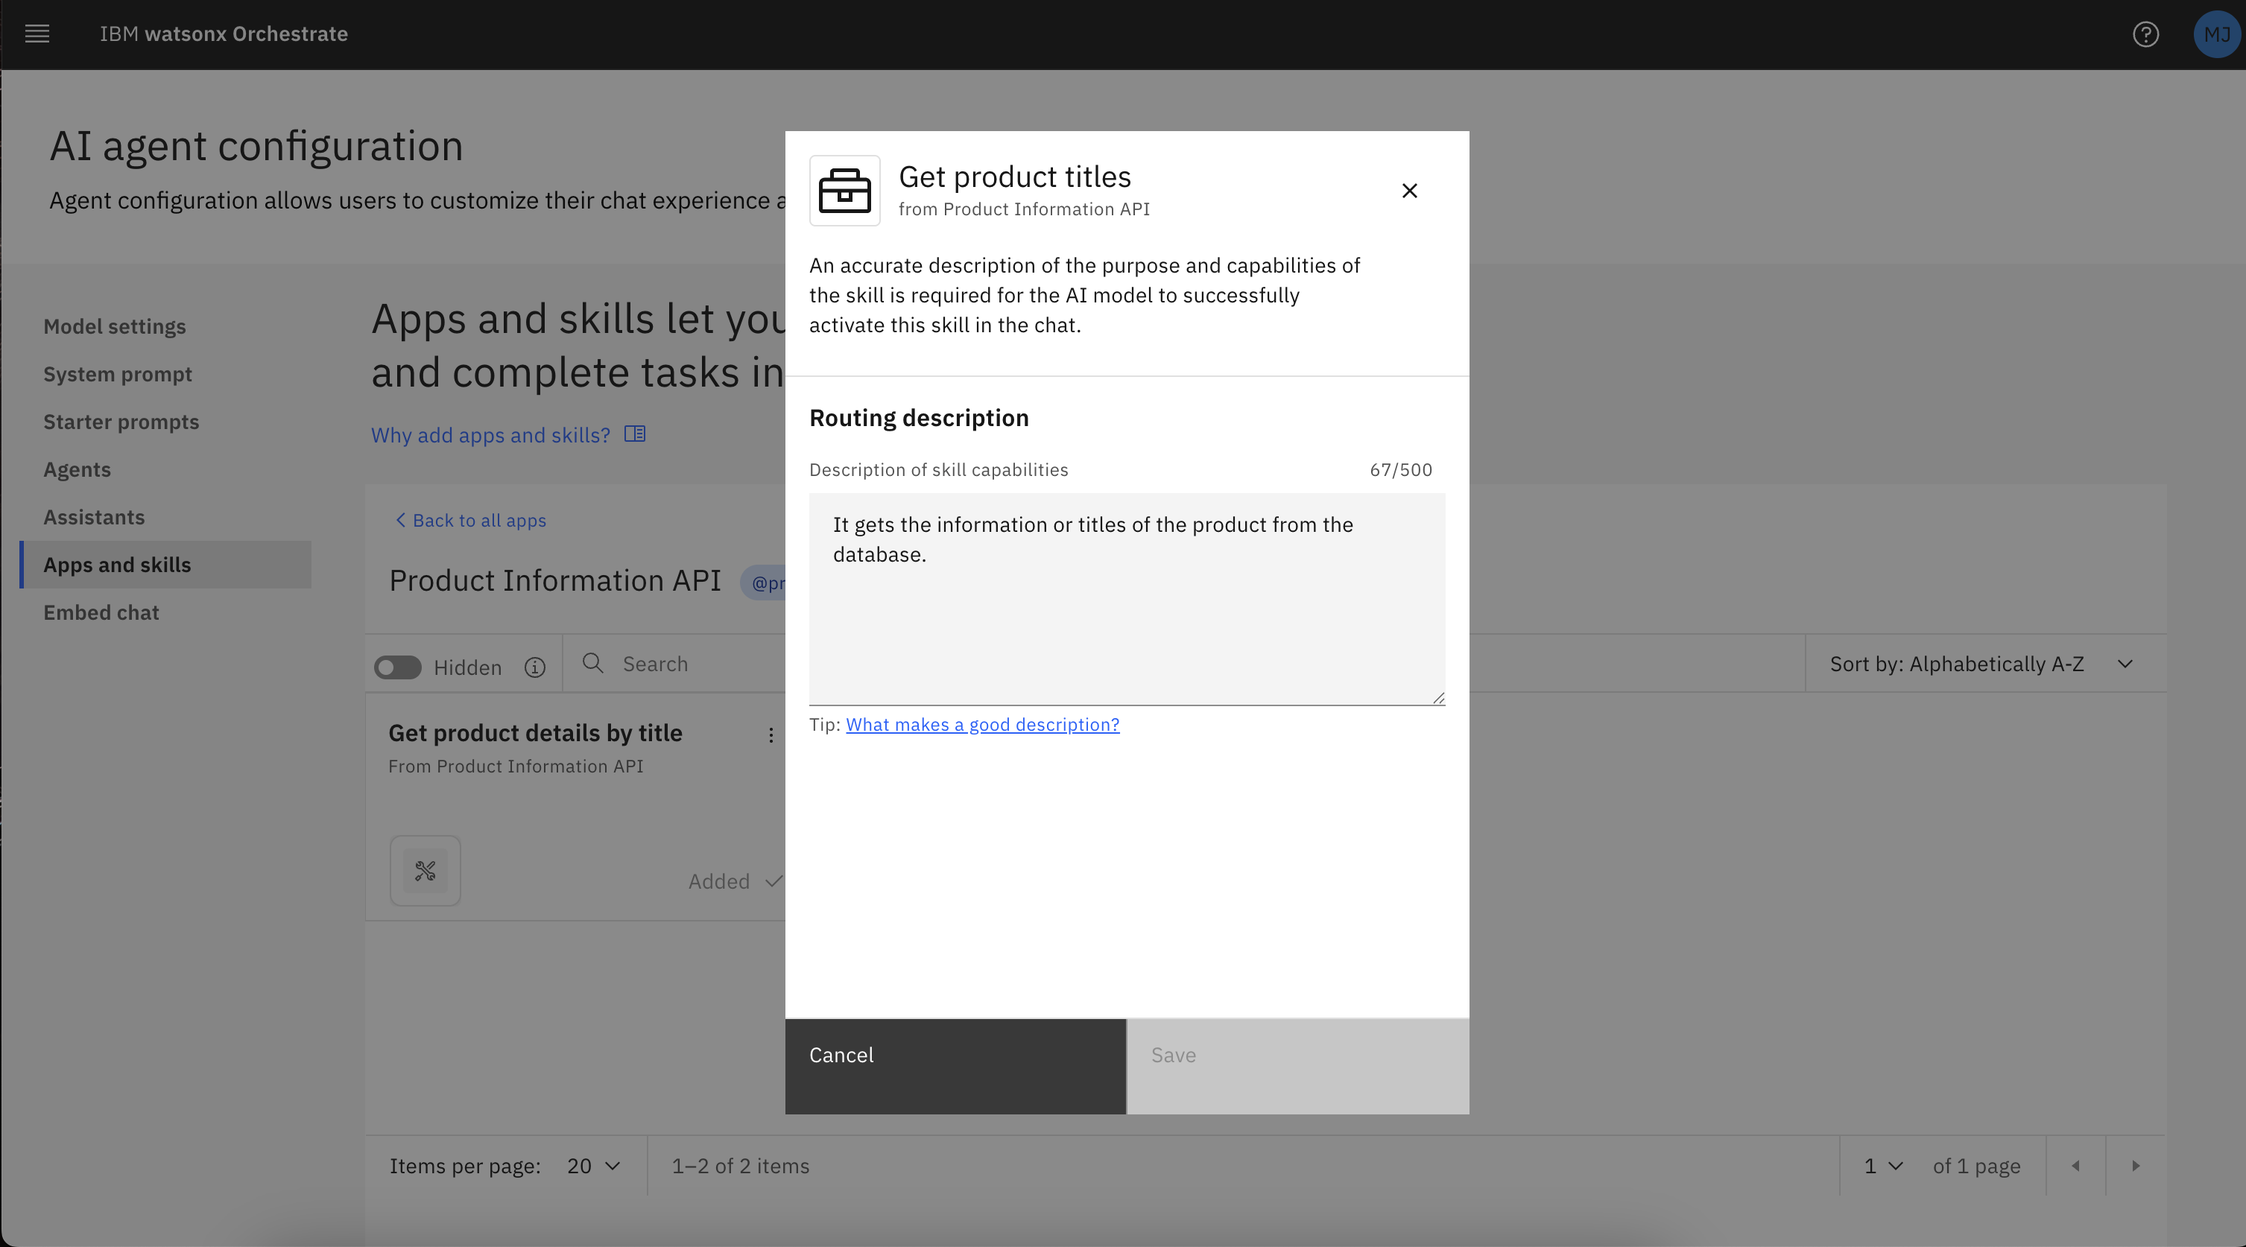
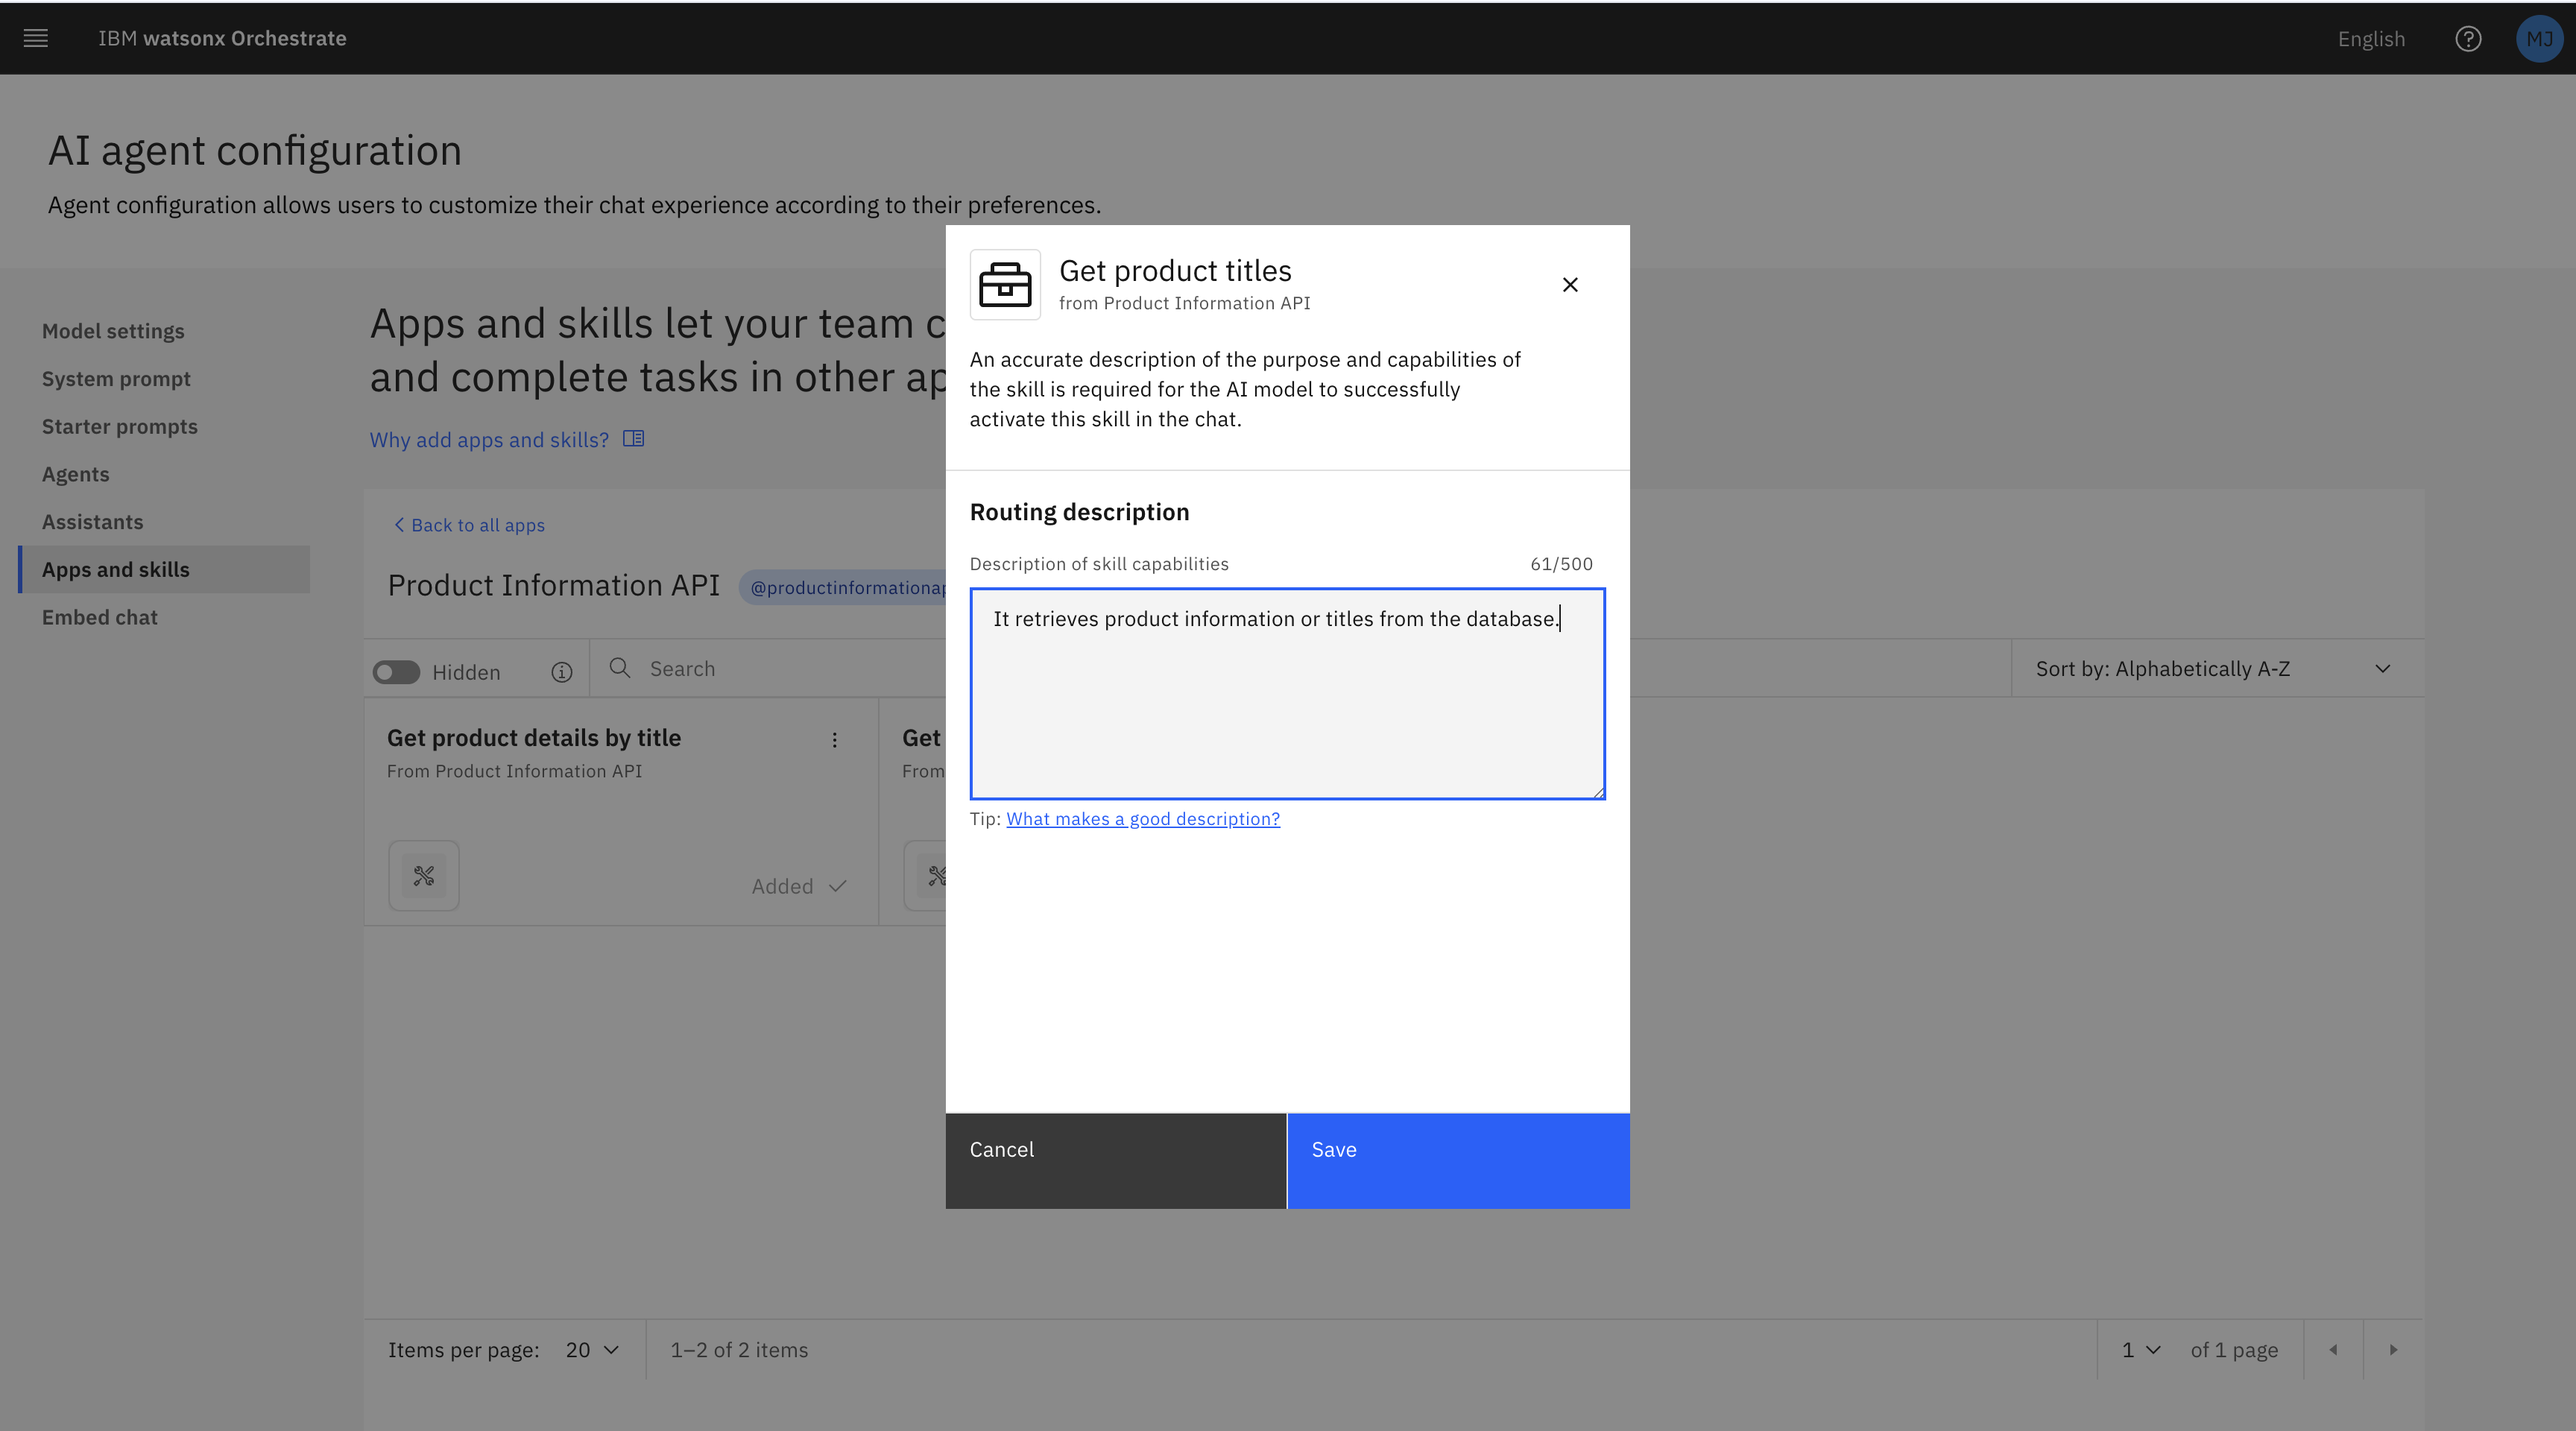
updated description of skills

diff --git a/usecases/business-automation/hands-on-lab-buisness-automation.md b/usecases/business-automation/hands-on-lab-buisness-automation.md
@@ -223,10 +223,10 @@ After receiving the file, import skills in **watsonx Orchestrate** by uploading 
 27. First, add the **Get product details by title** skill by clicking **Add to Chat**.  
    ![First Skills](assets/add_chat_1.png)  
 
-28. Change the description to "It gets the list of all the products from the database" as shown in the image below, then click **Add Skill**.  
+28. Do not modify the description as shown in the image below, then click **Add Skill**.  
    ![First Skills](assets/description_skill_1.png)  
 
-29. Next, add the **Get product titles** skill to the chat. Change the description to "It gets the information or titles of the product from the database."as shown in the image below, then click **Add Skill**.
+29. Next, add the **Get product titles** skill to the chat. Do not modify the description as shown in the image below, then click **Add Skill**.
    ![Second Skills](assets/description_skill_2.png)  
 
 30. Once both skills are connected, it will look like this:  
